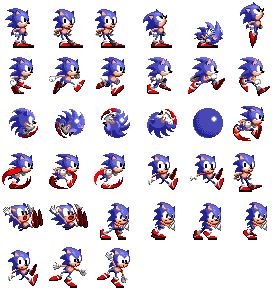
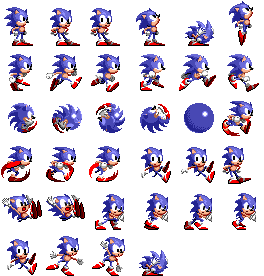
feat: crouching

diff --git a/rust/src/character/godot_api.rs b/rust/src/character/godot_api.rs
@@ -17,6 +17,8 @@ pub enum State {
     RollingBall,
     Hurt,
     SpringBounce,
+    Crouch,
+    Spindash,
 }
 
 impl State {
@@ -62,6 +64,14 @@ impl State {
     #[must_use]
     pub const fn is_spring_bouncing(self) -> bool {
         matches!(self, Self::SpringBounce)
+    }
+
+    /// Returns `true` if the state is [`Crouch`].
+    ///
+    /// [`Crouch`]: State::Crouch
+    #[must_use]
+    pub const fn is_crouching(self) -> bool {
+        matches!(self, Self::Crouch)
     }
 }
 use crate::{
@@ -319,13 +329,15 @@ impl Character {
             State::Idle => self.play_animation(c"idle"),
             State::StartMotion => self.play_animation(c"start_motion"),
             State::FullMotion => self.play_animation(c"full_motion"),
-            State::JumpBall | State::RollingBall => {
+            // TODO: get the actual spindash animation
+            State::JumpBall | State::RollingBall | State::Spindash => {
                 self.play_animation(c"rolling");
             }
             State::Hurt => self.play_animation(c"hurt"),
             State::Skidding => self.play_animation(c"skidding"),
             State::Pushing => self.play_animation(c"pushing"),
             State::SpringBounce => self.play_animation(c"spring_bounce"),
+            State::Crouch => self.play_animation(c"crouch"),
         }
     }
     #[func]

diff --git a/rust/src/character/grounded.rs b/rust/src/character/grounded.rs
@@ -16,12 +16,15 @@ impl Character {
 
         self.apply_slope_factor(delta);
 
+        self.handle_crouch(&input);
+
         if self.handle_jump(&input) {
             self.update_position(delta);
             return;
         }
-
-        self.ground_accelerate(&input, delta);
+        if !self.state.is_crouching() {
+            self.ground_accelerate(&input, delta);
+        }
 
         self.apply_friction(&input, delta);
 
@@ -40,6 +43,15 @@ impl Character {
         self.update_position(delta);
 
         self.handle_slipping();
+    }
+
+    fn handle_crouch(&mut self, input: &Gd<Input>) {
+        if input.is_action_pressed(c"roll".into()) && self.ground_speed.abs() <= 1.0 {
+            self.ground_speed = 0.0;
+            self.set_state(State::Crouch);
+        } else if self.state.is_crouching() && !input.is_action_pressed(c"roll".into()) {
+            self.set_state(State::Idle);
+        }
     }
 
     fn check_rolling(&mut self, input: &Gd<Input>) {

diff --git a/rust/src/character.rs b/rust/src/character.rs
@@ -58,7 +58,7 @@ pub struct Character {
     roll_deceleration: f32,
     #[init(default = 16.0)]
     roll_top_speed: f32,
-    #[export]
+    #[var(set, get)]
     ground_speed: f32,
 
     #[export]
@@ -94,11 +94,13 @@ pub struct Character {
     #[export(flags_2d_physics)]
     #[var(get, set = set_collision_layer)]
     collision_layer: u32,
-
     #[export]
+    has_spindash: bool,
+    spinrev: f32,
+
     #[var(set, get)]
     pub velocity: Vector2,
-    #[export]
+
     #[var(set = set_rings, get)]
     rings: i32,
     #[var(set, get)]

diff --git a/rust/src/character/lifecycle.rs b/rust/src/character/lifecycle.rs
@@ -149,7 +149,11 @@ impl Character {
             }
         }
 
-        if !(self.state.is_rolling() || self.state.is_skidding() || self.state.is_pushing()) {
+        if !(self.state.is_rolling()
+            || self.state.is_skidding()
+            || self.state.is_pushing()
+            || self.state.is_crouching())
+        {
             if self.ground_speed.abs() >= self.top_speed {
                 self.set_state(State::FullMotion);
             } else if self.ground_speed.abs() > 0.1 {
